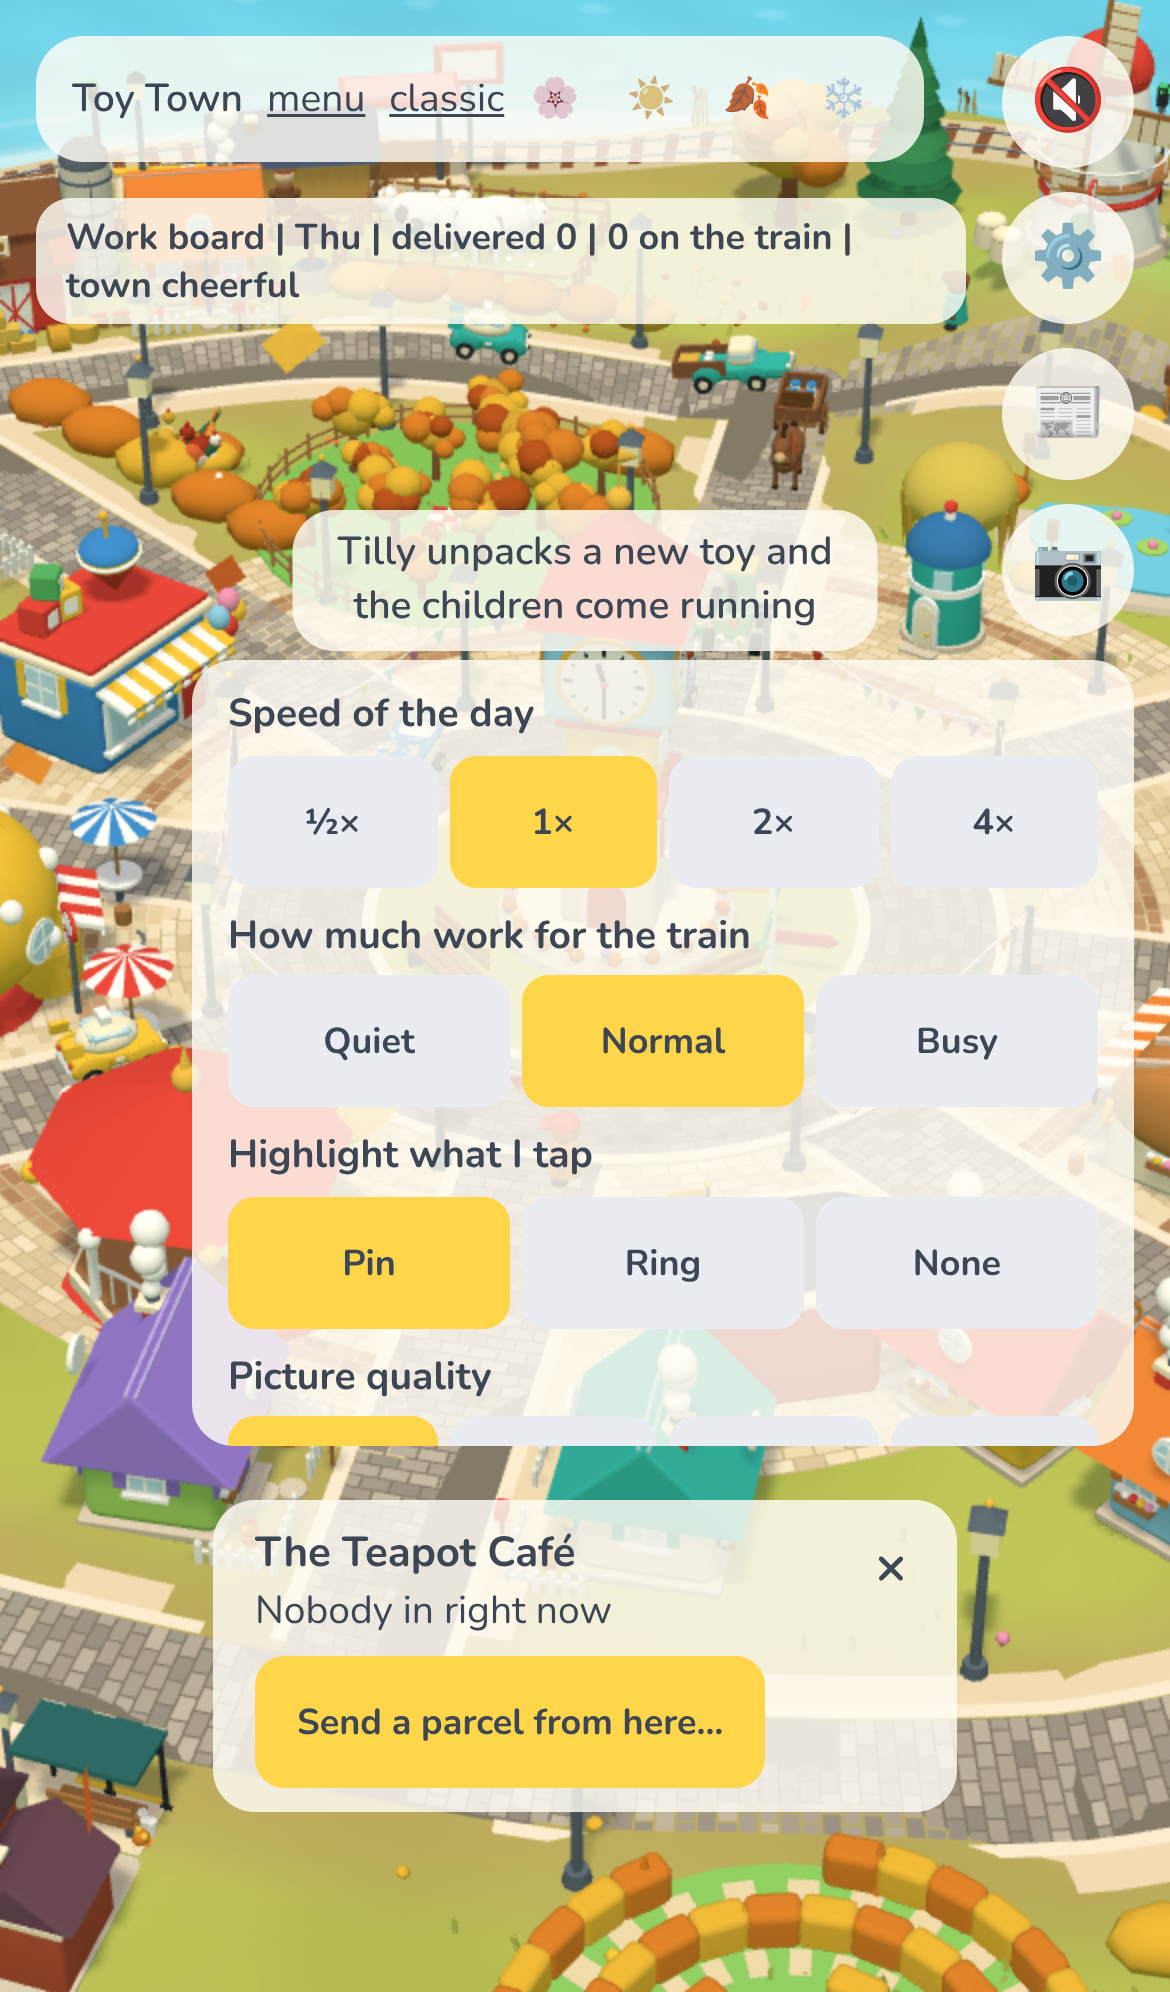
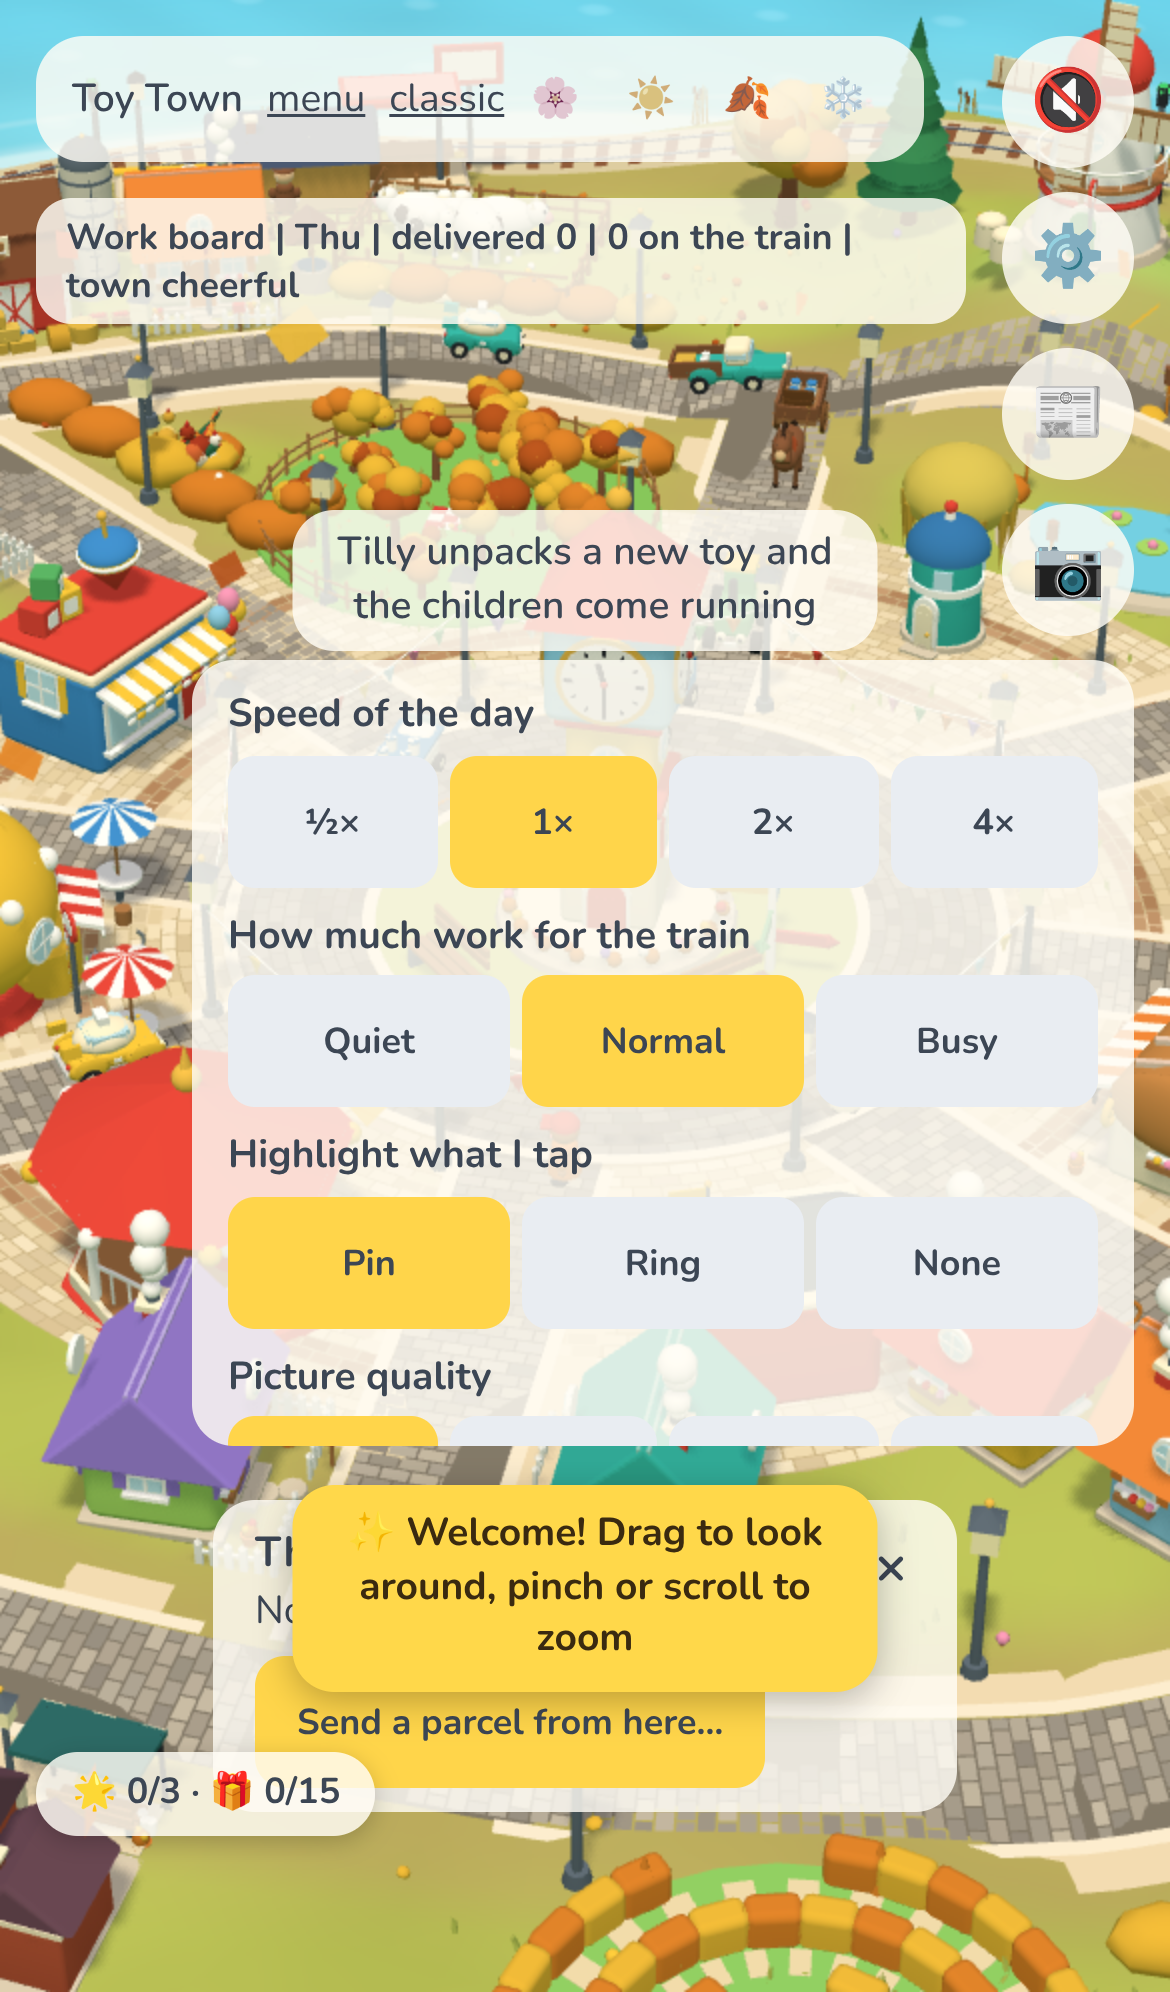
Toy Town Storybook: daily wishes, sticker album, goal pill, welcome-back gift, first-minute guide (#254)
* docs(toy-town): Claude START — train station, cuter cars

Claude-Session: https://claude.ai/code/session_016DDzLFPb4BuxMAThu2pji2

* Toy Town: ring railway with a station and a little steam train, small soft pastel vehicles, softer city

A track runs round a wider board with a station (clock tower, canopy, passengers who board and get off), a round-faced steam train with three carriages (stops, bell, doors, toot, smoke, tunnel through a hill), a windmill and a sheep pasture. Vehicles are rebuilt as small soft pastel toys; stopped cars whose bodies touch ease apart and a turning-round car waits for a clear lane. KayKit buildings are matt and lifted toward cream, most trees are round and smoothly shaded. The view can be dragged out to the board edge.

Claude-Session: https://claude.ai/code/session_016DDzLFPb4BuxMAThu2pji2

* docs(toy-town): Claude DONE — train station, cuter cars

Claude-Session: https://claude.ai/code/session_016DDzLFPb4BuxMAThu2pji2

* docs(toy-town): Claude START — clearer building site, tidier trees, warm cinematic grade

Claude-Session: https://claude.ai/code/session_016DDzLFPb4BuxMAThu2pji2

* Toy Town: a readable building site, rounder trees, warm cinematic grade
[…]

diff --git a/toy-town-new.html b/toy-town-new.html
@@ -16,6 +16,10 @@ canvas:active{cursor:grabbing}
 #hint{position:fixed;left:50%;transform:translateX(-50%);bottom:calc(14px + env(safe-area-inset-bottom,0px));padding:5px 12px;border-radius:999px;background:var(--paper);font:400 12px/1.3 Nunito,system-ui,sans-serif;transition:opacity .6s;max-width:calc(100vw - 32px);text-align:center}
 #story{position:fixed;left:50%;transform:translateX(-50%);top:calc(52px + env(safe-area-inset-top,0px));max-width:min(86vw,560px);padding:6px 14px;border-radius:14px;background:var(--paper);font:600 13px/1.35 Nunito,system-ui,sans-serif;text-align:center;opacity:0;transition:opacity .6s;pointer-events:none}
 #story small{display:block;font-weight:400;opacity:.8}
+#goal{position:fixed;left:12px;bottom:calc(52px + env(safe-area-inset-bottom,0px));padding:6px 12px;border:0;border-radius:999px;background:var(--paper);color:inherit;font:700 12px/1.3 Nunito,system-ui,sans-serif;box-shadow:0 2px 8px #0003;cursor:pointer;max-width:130px;white-space:nowrap}
+#guideTip{position:fixed;left:50%;transform:translateX(-50%);bottom:calc(100px + env(safe-area-inset-bottom,0px));padding:8px 16px;border-radius:14px;background:#ffd84a;color:#3a2a10;font:700 13px/1.35 Nunito,system-ui,sans-serif;box-shadow:0 3px 12px #0004;opacity:0;pointer-events:none;transition:opacity .5s;text-align:center;max-width:min(86vw,420px)}
+#guideTip.on{opacity:1}
+html.ui-off #goal,html.ui-off #guideTip{display:none}
 #story.on{opacity:1;pointer-events:auto;cursor:pointer}
 #card{position:fixed;left:50%;transform:translateX(-50%);bottom:calc(46px + env(safe-area-inset-bottom,0px));min-width:200px;max-width:min(88vw,420px);padding:8px 34px 8px 14px;border-radius:14px;background:var(--paper);font:400 13px/1.4 Nunito,system-ui,sans-serif;opacity:0;pointer-events:none;transition:opacity .25s}
 #card.on{opacity:1;pointer-events:auto}
@@ -81,49 +85,53 @@ html.ui-off #set,html.ui-off #panel,html.ui-off #paperBtn,html.ui-off #photoBtn,
 #dbg{position:fixed;left:calc(8px + env(safe-area-inset-left,0px));bottom:calc(8px + env(safe-area-inset-bottom,0px));padding:3px 8px;border-radius:8px;background:rgba(0,0,0,.6);color:#fff;font:600 11px/1.3 ui-monospace,Menlo,Consolas,monospace;pointer-events:none;z-index:9}
 html.ui-off #stack,html.ui-off #jobs,html.ui-off #toast,html.ui-off #snd,html.ui-off #chip,html.ui-off #hint,html.ui-off #story,html.ui-off #card{display:none}
 </style>
-<script type="importmap" data-stamp="17800c73ab">
+<script type="importmap" data-stamp="8c822024df">
 {"imports":{
   "three":"https://cdn.jsdelivr.net/npm/three@0.187.0/build/three.module.js",
   "three/addons/":"https://cdn.jsdelivr.net/npm/three@0.187.0/examples/jsm/",
-  "./assets/town2/angling.mjs":"./assets/town2/angling.mjs?v=17800c73ab",
-  "./assets/town2/build.mjs":"./assets/town2/build.mjs?v=17800c73ab",
-  "./assets/town2/chest.mjs":"./assets/town2/chest.mjs?v=17800c73ab",
-  "./assets/town2/chronicle.mjs":"./assets/town2/chronicle.mjs?v=17800c73ab",
-  "./assets/town2/curve.mjs":"./assets/town2/curve.mjs?v=17800c73ab",
-  "./assets/town2/def.mjs":"./assets/town2/def.mjs?v=17800c73ab",
-  "./assets/town2/director.mjs":"./assets/town2/director.mjs?v=17800c73ab",
-  "./assets/town2/ecology.mjs":"./assets/town2/ecology.mjs?v=17800c73ab",
-  "./assets/town2/events.mjs":"./assets/town2/events.mjs?v=17800c73ab",
-  "./assets/town2/festival.mjs":"./assets/town2/festival.mjs?v=17800c73ab",
-  "./assets/town2/festscene.mjs":"./assets/town2/festscene.mjs?v=17800c73ab",
-  "./assets/town2/gait.mjs":"./assets/town2/gait.mjs?v=17800c73ab",
-  "./assets/town2/garden.mjs":"./assets/town2/garden.mjs?v=17800c73ab",
-  "./assets/town2/graph.mjs":"./assets/town2/graph.mjs?v=17800c73ab",
-  "./assets/town2/inspect.mjs":"./assets/town2/inspect.mjs?v=17800c73ab",
-  "./assets/town2/limbs.mjs":"./assets/town2/limbs.mjs?v=17800c73ab",
-  "./assets/town2/lives.mjs":"./assets/town2/lives.mjs?v=17800c73ab",
-  "./assets/town2/memory.mjs":"./assets/town2/memory.mjs?v=17800c73ab",
-  "./assets/town2/mystery.mjs":"./assets/town2/mystery.mjs?v=17800c73ab",
-  "./assets/town2/nature.mjs":"./assets/town2/nature.mjs?v=17800c73ab",
-  "./assets/town2/needs.mjs":"./assets/town2/needs.mjs?v=17800c73ab",
-  "./assets/town2/paper.mjs":"./assets/town2/paper.mjs?v=17800c73ab",
-  "./assets/town2/quality.mjs":"./assets/town2/quality.mjs?v=17800c73ab",
-  "./assets/town2/saga.mjs":"./assets/town2/saga.mjs?v=17800c73ab",
-  "./assets/town2/sail.mjs":"./assets/town2/sail.mjs?v=17800c73ab",
-  "./assets/town2/settings.mjs":"./assets/town2/settings.mjs?v=17800c73ab",
-  "./assets/town2/sim.mjs":"./assets/town2/sim.mjs?v=17800c73ab",
-  "./assets/town2/sky.mjs":"./assets/town2/sky.mjs?v=17800c73ab",
-  "./assets/town2/smoke.mjs":"./assets/town2/smoke.mjs?v=17800c73ab",
-  "./assets/town2/sound.mjs":"./assets/town2/sound.mjs?v=17800c73ab",
-  "./assets/town2/stories.mjs":"./assets/town2/stories.mjs?v=17800c73ab",
-  "./assets/town2/track.mjs":"./assets/town2/track.mjs?v=17800c73ab",
-  "./assets/town2/treasure.mjs":"./assets/town2/treasure.mjs?v=17800c73ab",
-  "./assets/town2/vote.mjs":"./assets/town2/vote.mjs?v=17800c73ab",
-  "./assets/town2/weather.mjs":"./assets/town2/weather.mjs?v=17800c73ab",
-  "./assets/town2/weather3d.mjs":"./assets/town2/weather3d.mjs?v=17800c73ab",
-  "./assets/town2/wild3d.mjs":"./assets/town2/wild3d.mjs?v=17800c73ab",
-  "./assets/town2/wildlife.mjs":"./assets/town2/wildlife.mjs?v=17800c73ab",
-  "./assets/town2/wildscene.mjs":"./assets/town2/wildscene.mjs?v=17800c73ab"
+  "./assets/town2/album.mjs":"./assets/town2/album.mjs?v=8c822024df",
+  "./assets/town2/angling.mjs":"./assets/town2/angling.mjs?v=8c822024df",
+  "./assets/town2/build.mjs":"./assets/town2/build.mjs?v=8c822024df",
+  "./assets/town2/chest.mjs":"./assets/town2/chest.mjs?v=8c822024df",
+  "./assets/town2/chronicle.mjs":"./assets/town2/chronicle.mjs?v=8c822024df",
+  "./assets/town2/curve.mjs":"./assets/town2/curve.mjs?v=8c822024df",
+  "./assets/town2/def.mjs":"./assets/town2/def.mjs?v=8c822024df",
+  "./assets/town2/director.mjs":"./assets/town2/director.mjs?v=8c822024df",
+  "./assets/town2/ecology.mjs":"./assets/town2/ecology.mjs?v=8c822024df",
+  "./assets/town2/events.mjs":"./assets/town2/events.mjs?v=8c822024df",
+  "./assets/town2/festival.mjs":"./assets/town2/festival.mjs?v=8c822024df",
+  "./assets/town2/festscene.mjs":"./assets/town2/festscene.mjs?v=8c822024df",
+  "./assets/town2/gait.mjs":"./assets/town2/gait.mjs?v=8c822024df",
+  "./assets/town2/garden.mjs":"./assets/town2/garden.mjs?v=8c822024df",
+  "./assets/town2/graph.mjs":"./assets/town2/graph.mjs?v=8c822024df",
+  "./assets/town2/guide.mjs":"./assets/town2/guide.mjs?v=8c822024df",
+  "./assets/town2/inspect.mjs":"./assets/town2/inspect.mjs?v=8c822024df",
+  "./assets/town2/limbs.mjs":"./assets/town2/limbs.mjs?v=8c822024df",
+  "./assets/town2/lives.mjs":"./assets/town2/lives.mjs?v=8c822024df",
+  "./assets/town2/memory.mjs":"./assets/town2/memory.mjs?v=8c822024df",
+  "./assets/town2/mystery.mjs":"./assets/town2/mystery.mjs?v=8c822024df",
+  "./assets/town2/nature.mjs":"./assets/town2/nature.mjs?v=8c822024df",
+  "./assets/town2/needs.mjs":"./assets/town2/needs.mjs?v=8c822024df",
+  "./assets/town2/paper.mjs":"./assets/town2/paper.mjs?v=8c822024df",
+  "./assets/town2/quality.mjs":"./assets/town2/quality.mjs?v=8c822024df",
+  "./assets/town2/quests.mjs":"./assets/town2/quests.mjs?v=8c822024df",
+  "./assets/town2/saga.mjs":"./assets/town2/saga.mjs?v=8c822024df",
+  "./assets/town2/sail.mjs":"./assets/town2/sail.mjs?v=8c822024df",
+  "./assets/town2/settings.mjs":"./assets/town2/settings.mjs?v=8c822024df",
+  "./assets/town2/sim.mjs":"./assets/town2/sim.mjs?v=8c822024df",
+  "./assets/town2/sky.mjs":"./assets/town2/sky.mjs?v=8c822024df",
+  "./assets/town2/smoke.mjs":"./assets/town2/smoke.mjs?v=8c822024df",
+  "./assets/town2/sound.mjs":"./assets/town2/sound.mjs?v=8c822024df",
+  "./assets/town2/stories.mjs":"./assets/town2/stories.mjs?v=8c822024df",
+  "./assets/town2/track.mjs":"./assets/town2/track.mjs?v=8c822024df",
+  "./assets/town2/treasure.mjs":"./assets/town2/treasure.mjs?v=8c822024df",
+  "./assets/town2/vote.mjs":"./assets/town2/vote.mjs?v=8c822024df",
+  "./assets/town2/weather.mjs":"./assets/town2/weather.mjs?v=8c822024df",
+  "./assets/town2/weather3d.mjs":"./assets/town2/weather3d.mjs?v=8c822024df",
+  "./assets/town2/welcome.mjs":"./assets/town2/welcome.mjs?v=8c822024df",
+  "./assets/town2/wild3d.mjs":"./assets/town2/wild3d.mjs?v=8c822024df",
+  "./assets/town2/wildlife.mjs":"./assets/town2/wildlife.mjs?v=8c822024df",
+  "./assets/town2/wildscene.mjs":"./assets/town2/wildscene.mjs?v=8c822024df"
 }}
 </script>
 </head>
@@ -145,7 +153,7 @@ html.ui-off #stack,html.ui-off #jobs,html.ui-off #toast,html.ui-off #snd,html.ui
 <div id="fail"><div>The new town could not start.<br><a href="toy-town.html">Open the current town</a>, or try a hard refresh (Ctrl+F5).<br><small id="why"></small><br><small>If it mentions WebGL, turn on hardware acceleration in the browser's settings (in Edge: edge://settings/system).</small></div></div>
 <script>if(/[?&]clean=1\b/.test(location.search))document.documentElement.classList.add('ui-off');</script>
 <script type="module">
-  import('./assets/town2/main.mjs?v=17800c73ab').catch(e => { console.error(e); document.getElementById('why').textContent = (e && (e.name + ': ' + e.message)) || String(e); document.getElementById('fail').style.display = 'flex'; });
+  import('./assets/town2/main.mjs?v=8c822024df').catch(e => { console.error(e); document.getElementById('why').textContent = (e && (e.name + ': ' + e.message)) || String(e); document.getElementById('fail').style.display = 'flex'; });
 </script>
 </body>
 </html>

diff --git a/TOY_TOWN_COLLAB.md b/TOY_TOWN_COLLAB.md
@@ -1439,3 +1439,12 @@ A `START` does not prohibit parallel edits. Avoid stepping on each other's uncom
 
 ### 2026-11-12 · Claude · START+DONE (new storybook town, follow-up 28: tap the story banner to go to the story)
 - **Request (owner)**: "when I click above the story or the happening, why doesn't it take it to that place or happening". **Done**: the story banner (`#story`) was click-through; it is now tappable. A tap closes the paper, then selects the first person in the story who is out walking (the camera follows them and the card shows who and where), else flies to the first place they are headed to; for an emergency (fire, a lost child, a storm) it goes to the burning house or the missing child. Browser assertion added. Not verified: a real phone.
+
+### 2026-11-12 · Claude · START (new storybook town, follow-up 29: make it a game people come back to: daily wishes, a sticker album, a next-goal pill, a welcome-back gift, a first-minute guide)
+- **Base**: master afb23d1. **Request (owner)**: "can you help me making this better and keeping interactive and keep the user hooked ... go ahead and build all". **Plan** (pure modules, each tested): `quests.mjs` (three wishes each morning, asked by residents, done by real actions: fish, plant, feed the hens, rest the sea, meet a resident, send a parcel, take the boat, read the paper; coins go to the chest), `album.mjs` (stickers found by seeing things; saved with the saga), `welcome.mjs` (what happened while you were away, a gift that grows with a streak of days), `guide.mjs` (a five-step first-minute guide). UI: Wishes and Album tabs on the paper, a small "next goal" pill that opens Wishes, the welcome page on return. The "town grows" part is the goal pill plus the existing chest upgrades.
+
+### 2026-11-12 · Claude · DONE (new storybook town, follow-up 29: things to come back for)
+- **Done**: spec 4i. Four pure modules (`quests`, `album`, `welcome`, `guide`), sim and saga integration, Wishes and Album tabs, the goal pill, the welcome page and the guide tip. Logic block (determinism, wishes granted and paid once, a new day, damaged saves, stickers, streak and gift, guide) and a browser assertion; both suites pass (96 calls).
+- **Not verified**: a real phone, the welcome-back page after a real day away (logic only), balance of the rewards over weeks.
+- **Not built**: bigger visible rewards from wishes (the chest upgrades are the same five plus the beehive).
+

diff --git a/TOY_TOWN_NEW_SPEC.md b/TOY_TOWN_NEW_SPEC.md
@@ -231,6 +231,14 @@ The train is a tank engine with brass-banded boiler, side tanks, funnel, steam a
 
 In Nature, under "The land": **Plant flowers** and **Feed the hens** (each once a day; they lift `eco.boost` for about three days) and **Rest the sea** (a switch the fishermen obey). A **beehive** can be bought for the chest (20 coins): the bees never dwindle below .45 and honey comes half as fast again. What you did is written in the chronicle ("You planted flowers and fed the hens") and in the saga log.
 
+## 4i. Things to come back for
+
+- **Daily wishes** (`quests.mjs`): three different wishes each morning, seeded by the real calendar day (the same day always gives the same wishes), each asked by a resident and done by a real action: catch fish, plant flowers, feed the hens, rest the sea, meet people, send a parcel, take the boat, read the paper. Each pays coins into the chest; granted wishes are kept for the day (no double pay) and saved with the saga.
+- **Sticker album** (`album.mjs`): 22 stickers found by seeing or doing things (the whale, the dwarfs' gem, a golden fish, a wedding, a honey day, ten wishes...); unfound ones show a hint. Saved with the saga.
+- **Goal pill**: a small pill bottom-left ("wishes 1/3 · gift 12/15") that opens the Wishes tab; the next chest upgrade shows its progress.
+- **Welcome back** (`welcome.mjs`): after six hours away, a page with what the paper last said and a gift of coins that grows with a streak of days (capped at 10).
+- **First-minute guide** (`guide.mjs`): a yellow tip walks a new visitor through look, tap, paper, wishes and plant flowers, then retires.
+
 ## 5. Art rules
 
 - Fat, rounded, slightly wonky. No sharp corners: `bag.box` is a rounded box; roofs overhang.
